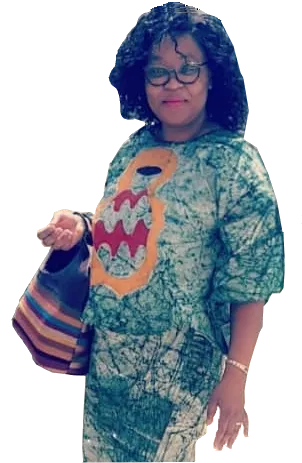
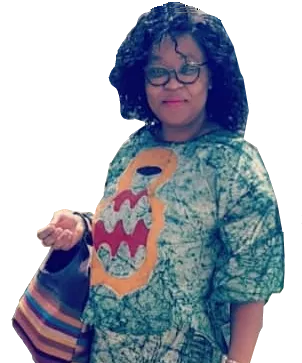
élimination des ombres sur les cartes et images

diff --git a/assets/css/styles.css b/assets/css/styles.css
@@ -165,9 +165,6 @@ header {
 .logo-asso:hover {
     transform: scale(1.2);
     transition-duration: .5s;
-	box-shadow: 0 10px 20px #00000030, 0 6px 6px #0000003b;
-	background-color: #fff;
-	border-radius: 5px;
 }
 
 nav {
@@ -230,7 +227,6 @@ nav ul li a:hover {
 /***** CAROUSSEL *****/
 .caroussel {
     width: 50%;
-	box-shadow: 0 10px 20px #00000030, 0 6px 6px #0000003b;
 }
 
 .carousel-control-next {
@@ -258,13 +254,11 @@ nav ul li a:hover {
 	background-color: #fff;
     padding: 8px;
     border-radius: 5px;
-    box-shadow: 0 10px 20px #00000030, 0 6px 6px #0000003b;
 }
 
 .img-debre {
 	border-radius: 5px;
 	width: 120px;
-    box-shadow: 0 10px 20px #00000030, 0 6px 6px #0000003b;
 }
 
 .main-text {
@@ -300,7 +294,6 @@ nav ul li a:hover {
     font-size: 2rem;
 	font-weight: bold;
     background-color: #fff;
-    box-shadow: 0 10px 20px #00000030, 0 6px 6px #0000003b;
     color: #0ebcf1;
     height: 100px;
 	padding: 8px;
@@ -317,7 +310,6 @@ nav ul li a:hover {
 .content-card {
     width: 480px;
     height: 600px;
-	box-shadow: 0 10px 20px #00000030, 0 6px 6px #0000003b;
 }
 
 /***** IMAGES CARTES NEWS *****/
@@ -325,14 +317,12 @@ nav ul li a:hover {
     display: flex;
     justify-content: center;
     height: 300px;
-    padding: 10px;
     background-color: #e0e0e0;
-    border-radius: 5px 5px 0 0;
 }
 
 .img-news {
-    width: auto;
-    height: 280px;
+    width: 100%;
+    height: 100%;
 }
 
 /***** CONTENT TEXTE CARTES NEWS *****/
@@ -340,7 +330,6 @@ nav ul li a:hover {
     height: 300px;
     background-color: #fff;
     padding: 20px;
-    border-radius: 0 0 5px 5px;
 }
 
 /***** TITRE CARTES NEWS *****/
@@ -419,7 +408,7 @@ nav ul li a:hover {
 	margin-top: 60px;
 	margin-bottom: 40px;
 	text-align: center;
-	box-shadow: 0 10px 20px #00000030, 0 6px 6px #0000003b;
+	box-shadow: 0 0 3px #00000066, 0 20px 10px #000000b3;
 }
 
 .text-temoignages h4 {
@@ -484,8 +473,6 @@ a {
 	content: " ";
 	background: #0000001a;
 	border-radius: 50%;
-	box-shadow: 0 0 3px #00000066, 0 20px 10px #000000b3;
-	
 	z-index: -10;
 }
 

diff --git a/index.html b/index.html
@@ -97,7 +97,7 @@
     <div class="all-card">
       <div class="content-card">
         <div class="card-image">
-          <img class="img-news rounded" src="assets/img/img-site/directrice.webp" class="card-img-top" alt="photo de la directrice de l'association 'Maman Esther'" title="Esther GERARD directrice de l'association 'Maman Esther'">
+          <img class="img-news" src="assets/img/img-site/directrice-news.webp" class="card-img-top" alt="photo de la directrice de l'association 'Maman Esther'" title="Esther GERARD directrice de l'association 'Maman Esther'">
         </div>
         <div class="card-news">
           <h4 class="card-title text-uppercase">Bienvenue madame la directrice !</h4>
@@ -110,7 +110,7 @@
       </div>
       <div class="content-card">
         <div class="card-image">
-          <img class="img-news rounded" src="assets/img/img-site/african-children.webp" class="card-img-top" alt="photo du petit Samuel E'too" title="Samuel E'too">
+          <img class="img-news" src="assets/img/img-site/african-children.webp" class="card-img-top" alt="photo du petit Samuel E'too" title="Samuel E'too">
         </div>
         <div class="card-news">
           <h4 class="card-title text-uppercase">Notre dernière recrue !</h4>
@@ -123,7 +123,7 @@
       </div>
       <div class="content-card">
         <div class="card-image">
-          <img class="img-news rounded" src="assets/img/img-site/orphelinat-cameroun.webp" class="card-img-top" alt="photo de l'orphelinat 'les orphelins'" title="l'orphelinat 'les orphelins'">
+          <img class="img-news" src="assets/img/img-site/orphelinat-cameroun.webp" class="card-img-top" alt="photo de l'orphelinat 'les orphelins'" title="l'orphelinat 'les orphelins'">
         </div>
         <div class="card-news">
           <h4 class="card-title text-uppercase">Partenariat entre association</h4>
